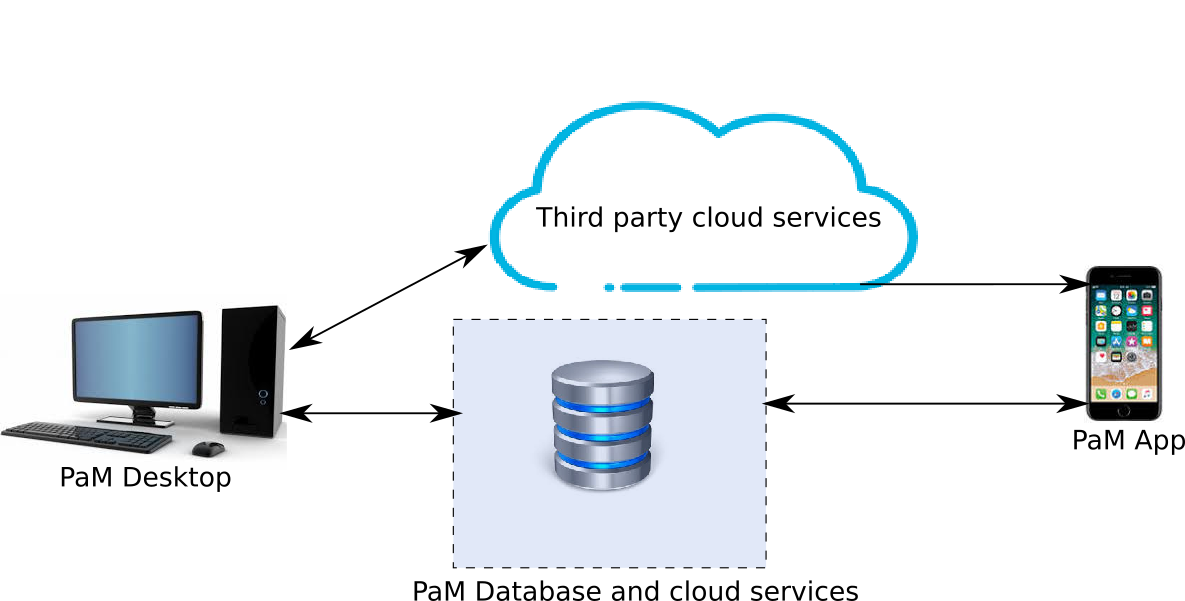
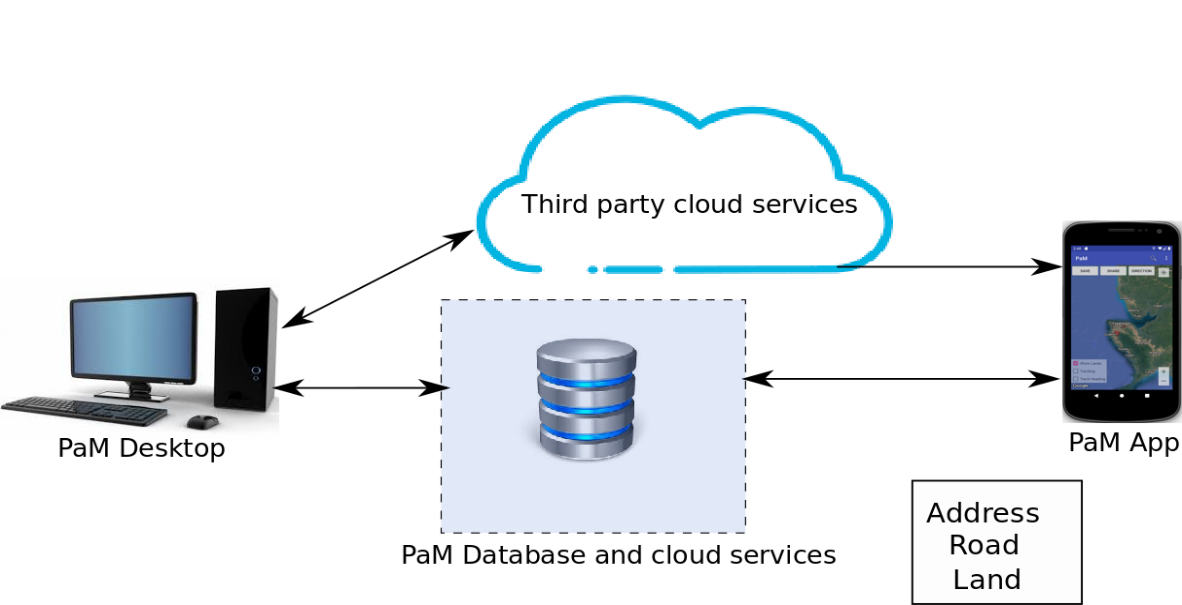
cleaned site

Changed region(s): [[0.0, 0.1498, 1.0, 1.0], [0.7614, 0.7787, 0.9137, 1.0]]

diff --git a/_posts/2019-05-02-concept.md b/_posts/2019-05-02-concept.md
@@ -1,29 +1,45 @@
 ---
 author: someone
-title: The Concept
+title: The Software
 featimg: architecture2.png
 layout: post-full
 ---
-To develop a GIS mobile and desktop framework that helps resolve many navigation and GIS problems in the developing world. Furthermore, our software can be used by GIS experts, tax collectors, city planners and many others. The desktop software and mobile applications are free and released under the terms of BSD (see licence below). However, both the mobile apps and desktop software can be customised for specific purposes.
+A cadastre system for land surveyors, property evaluators, tax collects, disaster response and city planners that conforms to all Open Geospatial Consortium (OGC) standards.
 <br/>
 <br/>
 ##### Background
-All across Africa from The Gambia to Somalia, from Cairo to Cape Town, there is a lack of proper urban and rural  planning. This has caused the congestion of our cities which usually manifest itself in the form of slums, shortage of government facilities such as hospitals, schools, police stations etc. In addition, this has also lead to a lack of proper mechanism for tax collection for lands, residential homes and businesses. As such, this has lead to a significant loss of revenue for authorities. Though it has already started to manifest itself in the form of recurrent flooding of Freetown, Sierra Leone, if proper planning is not carried out, we will face similar sanitary problems like those faced in other developing countries in the near future.
+The Planning and Mapping System consists of a desktop application (Linux and Windows) and an Android and iOS applications interconnected by cloud services which host the databases and web based APIs. This ensures availability of data to the users and authorities.
 
 <br/>
 <br/>
-##### Description
-The Planning and Mapping System consists of a desktop application (Linux and Windows) and an Android and iOS applications interconnected by cloud services which host the databases and web based APIs. The mobile applications can be used for navigation, display of important places nearby, display of weather and can be used to create addresses, roads and lands for any geographical or political region. The desktop software while it can do all these, it comes with the analysis package and outputs the results in standard csv, KML, shapefiles and other standard GIS formats. These outputs can be used in other software like ESRI's ArcGIS, Google Earth etc. The desktop application can report land encroachment, costs, values and elevation maps of lands and roads and other information that can be used by stakeholders. In addition, this software also has our city planning algorithm for new (uninhabited) and inhabited parts of a region. The algorithm uses terrain elevation profile, number of schools, hospitals etc per inhabitants, value of current structures etc as constraints to come up with a planned city that meets the challenges of a sustainable city.
-
-
 <a href="/media/compressed/architecture2.png
 " target="_blank"><img src="/media/compressed/architecture2.png" 
 alt="IMAGE ALT TEXT HERE" width="600" height="400" border="10" /></a>
+
+<br/>
+<br/>
+
+##### What we offer
+We offer mobile apps, desktop software and web based APIs that solve the following
+* A cadastre system for addresses, roads and lands
+* Safe and secure data with historical track changes
+* Revenue generation and collection
+* A survey mobile app that can be used either online or offline
+* A GIS software that is OGC compliant so can easily input existing data in csv, shapefile or KML formats and from PostGIS, SPatialite and MySQL databases
+* Real-time data across all platforms
+* City planning
+* Analysis of distribution of lands, roads and addresses
+* Detection of land and road encroachments in real-time
+* Emergency response using weather, land and road information
+
+
+
+
 
 
 <br/>
 <br/>
 ##### Licensing
-All of our desktop software and mobile applications are released as binaries that are open source and free under the terms of BSD. However, they can also be customised for specific users. To download, please see the [download page](/downloads). 
+All of our desktop software and mobile applications are available and are free to use. Please see the [download page](/downloads) if interested. 
 <br/>
 <br/>

diff --git a/_posts/2019-05-01-unified_gis.md b/_posts/2019-05-01-unified_gis.md
@@ -4,7 +4,7 @@ featimg: unified_gis.png
 title: Unified GIS
 layout: post-full
 ---
-With our mobile and desktop applications, our software framework is a unification of the majority of the commonly used geographic information system (GIS) file formats which follow the standard "Points, LineString, MultiLines/LinearRings" types. Hence our software and apps are 100% Open Geospatial Consortium (OGC) compliant.
+Our software and mobile applications are 100% Open Geospatial Consortium (OGC) compliant and follow the standard "Point, LineString, MultiLines/LinearRings" data types.
 <br/>
 <br/>
 <figure>
@@ -13,6 +13,12 @@ With our mobile and desktop applications, our software framework is a unificatio
 alt="IMAGE ALT TEXT HERE" width="340" height="280" border="10" /><figcaption>Some of the input/output file formats supported by PaM.
  </figcaption></a>
  </figure>
+ 
+<br/>
+<br/>
+##### Mobile Applications
+Our mobile applications support loading and writing of KML files.
+
 <br/>
 <br/>
 ##### Desktop Application
@@ -23,7 +29,7 @@ Our desktop applications are developed to support a wide variety of formats for 
 ###### Vector Formats
 * Comma separated value (csv) for generic and specific formats. 
 * Keyhole Markup Language (KML). Linestring (path), Point (pin/address) and LinearRing for 3D structures
-* Environmental Systems Research Institute ESRI shapefile. .shp (.shx), .dbf and .prj are supported.<!-- Point for pin/address Polyline and PolylineM for road and Polygon for land-->
+* Environmental Systems Research Institute ESRI shapefile. .shp (.shx), .dbf and .prj are supported.
 * GeoJSON
 
 <br/>
@@ -84,16 +90,12 @@ alt="IMAGE ALT TEXT HERE" width="600" height="400" border="10" />
  MySQL spatial database that can be directly loaded or saved as csv, KML or Shapefile.
  </figcaption></a>
  </figure>
- <br/>
 
-<br/>
-##### Mobile Applications
-Our mobile applications support loading and writing of KML files. The files can be used to support emergency response to hard to reach places. The applications can also take high resolution screenshots of the current display.
 <br/>
 <br/>
 
 ##### Future Plans
-To support all the vector and raster file formats. If there is is a format you would like us to add, please [contact us](/contact_us).
+If there is is a vector or raster format you would like us to support, please [contact us](/contact_us).
 
 
 

diff --git a/about_us/index.md b/about_us/index.md
@@ -2,9 +2,14 @@
 layout: page-full #page-material-sidebar-right
 title: About Us
 ---
-We are a group of enthusiasts who want to develop software that can combine the capabilities of all the GIS software and make available the resulting software as open source. This open source software can be customised to user requirements. In addition, we also want to solve some of the most basic GIS problems in the developing world. Problems such as city planning, land digitisation, efficient taxation and many more.
+Our registered address is
+<br/>
+176 Quarry, Off Bai Bureh Road
+<br/>
+Freetown
+<br/>
+Western Urban, Sierra Leone
 <br/>
 <br/>
-
-<b>For more information, plese [contact us](/contact_us).</b>
+We have partners in local vendors in many other countries. To become a vendor or partner or if interested in the software, <b>please [contact us](/contact_us).</b>
 
